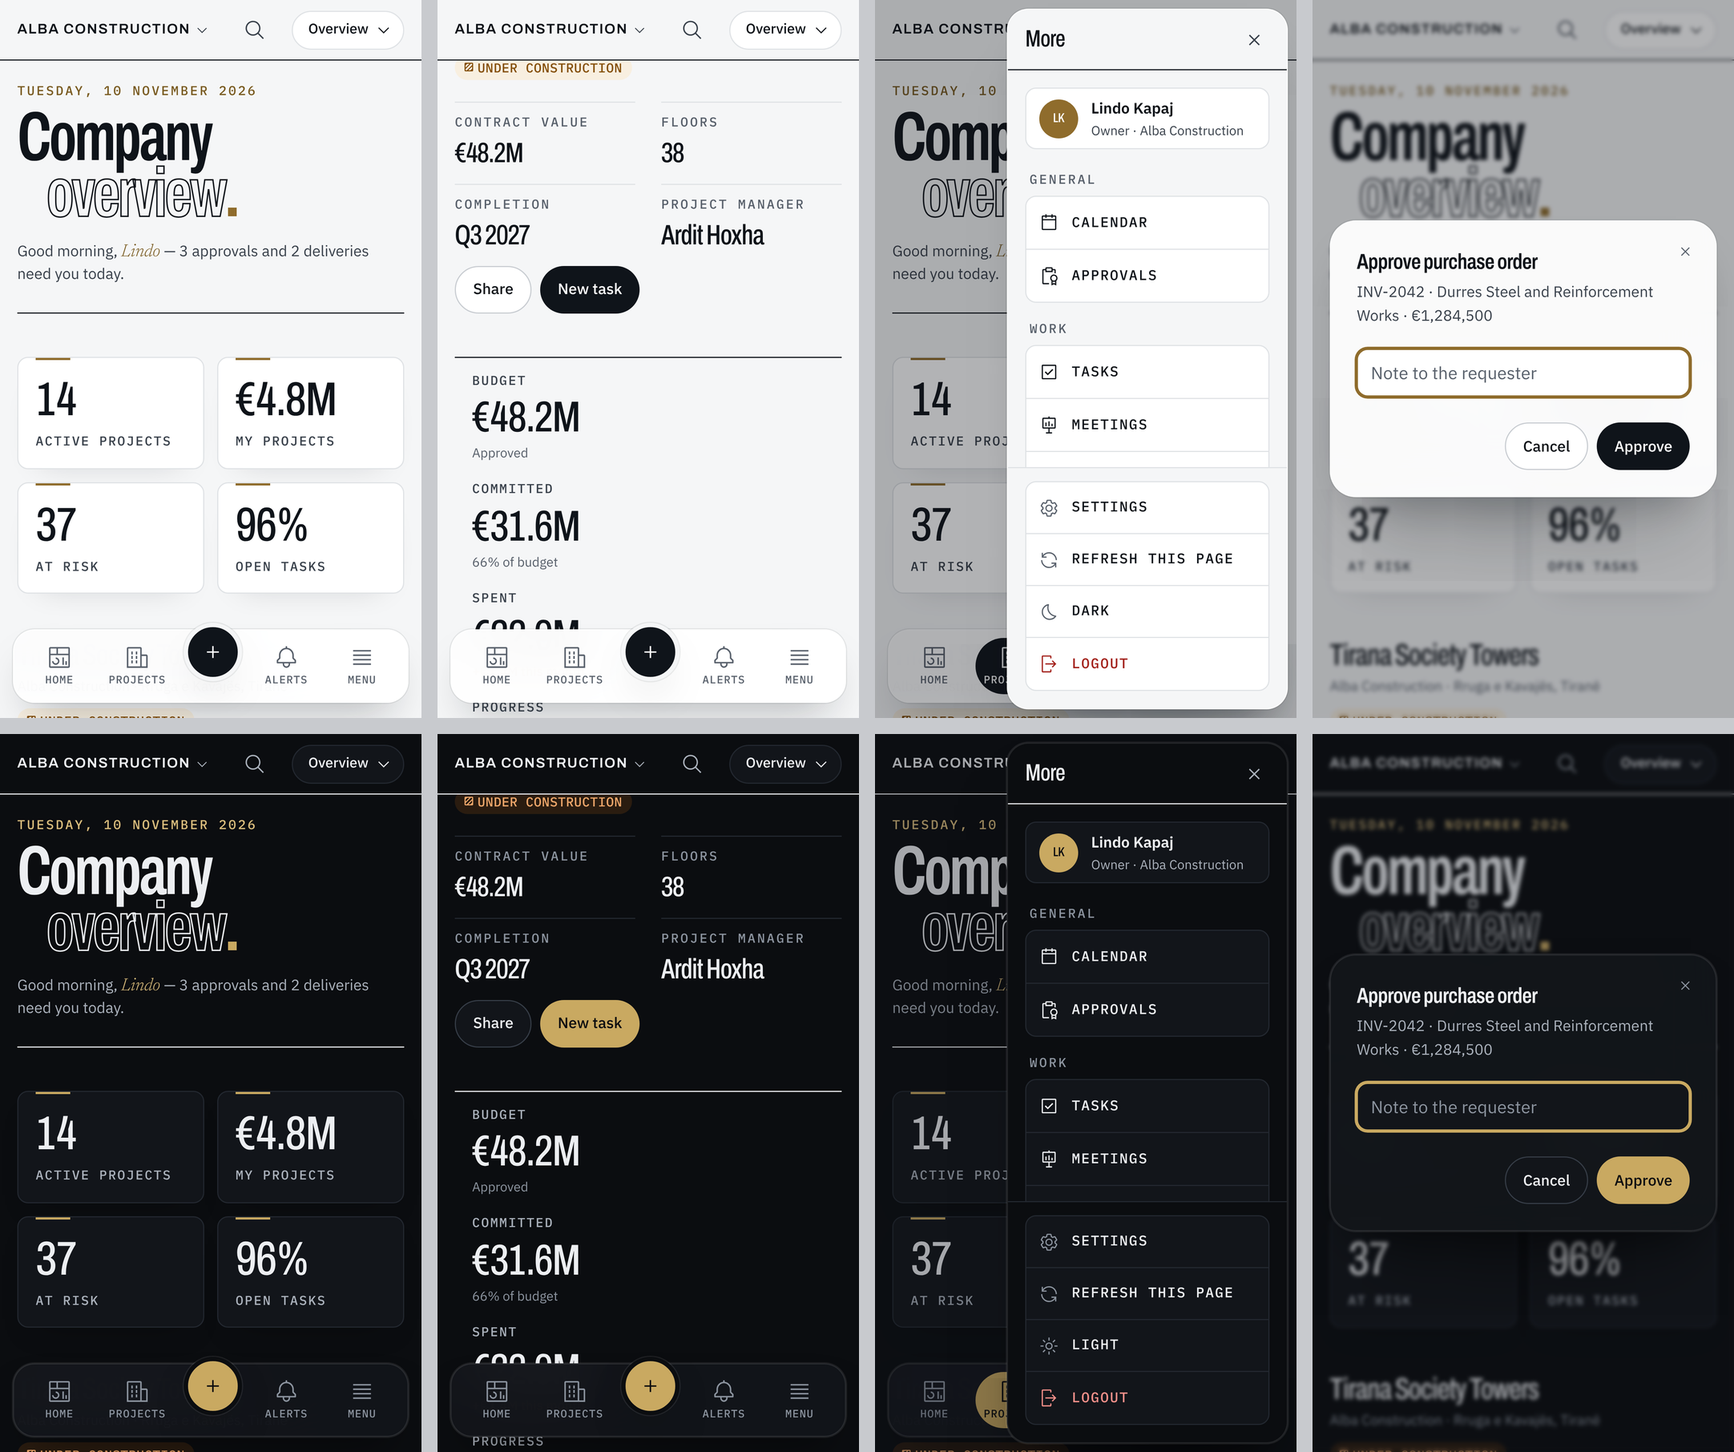
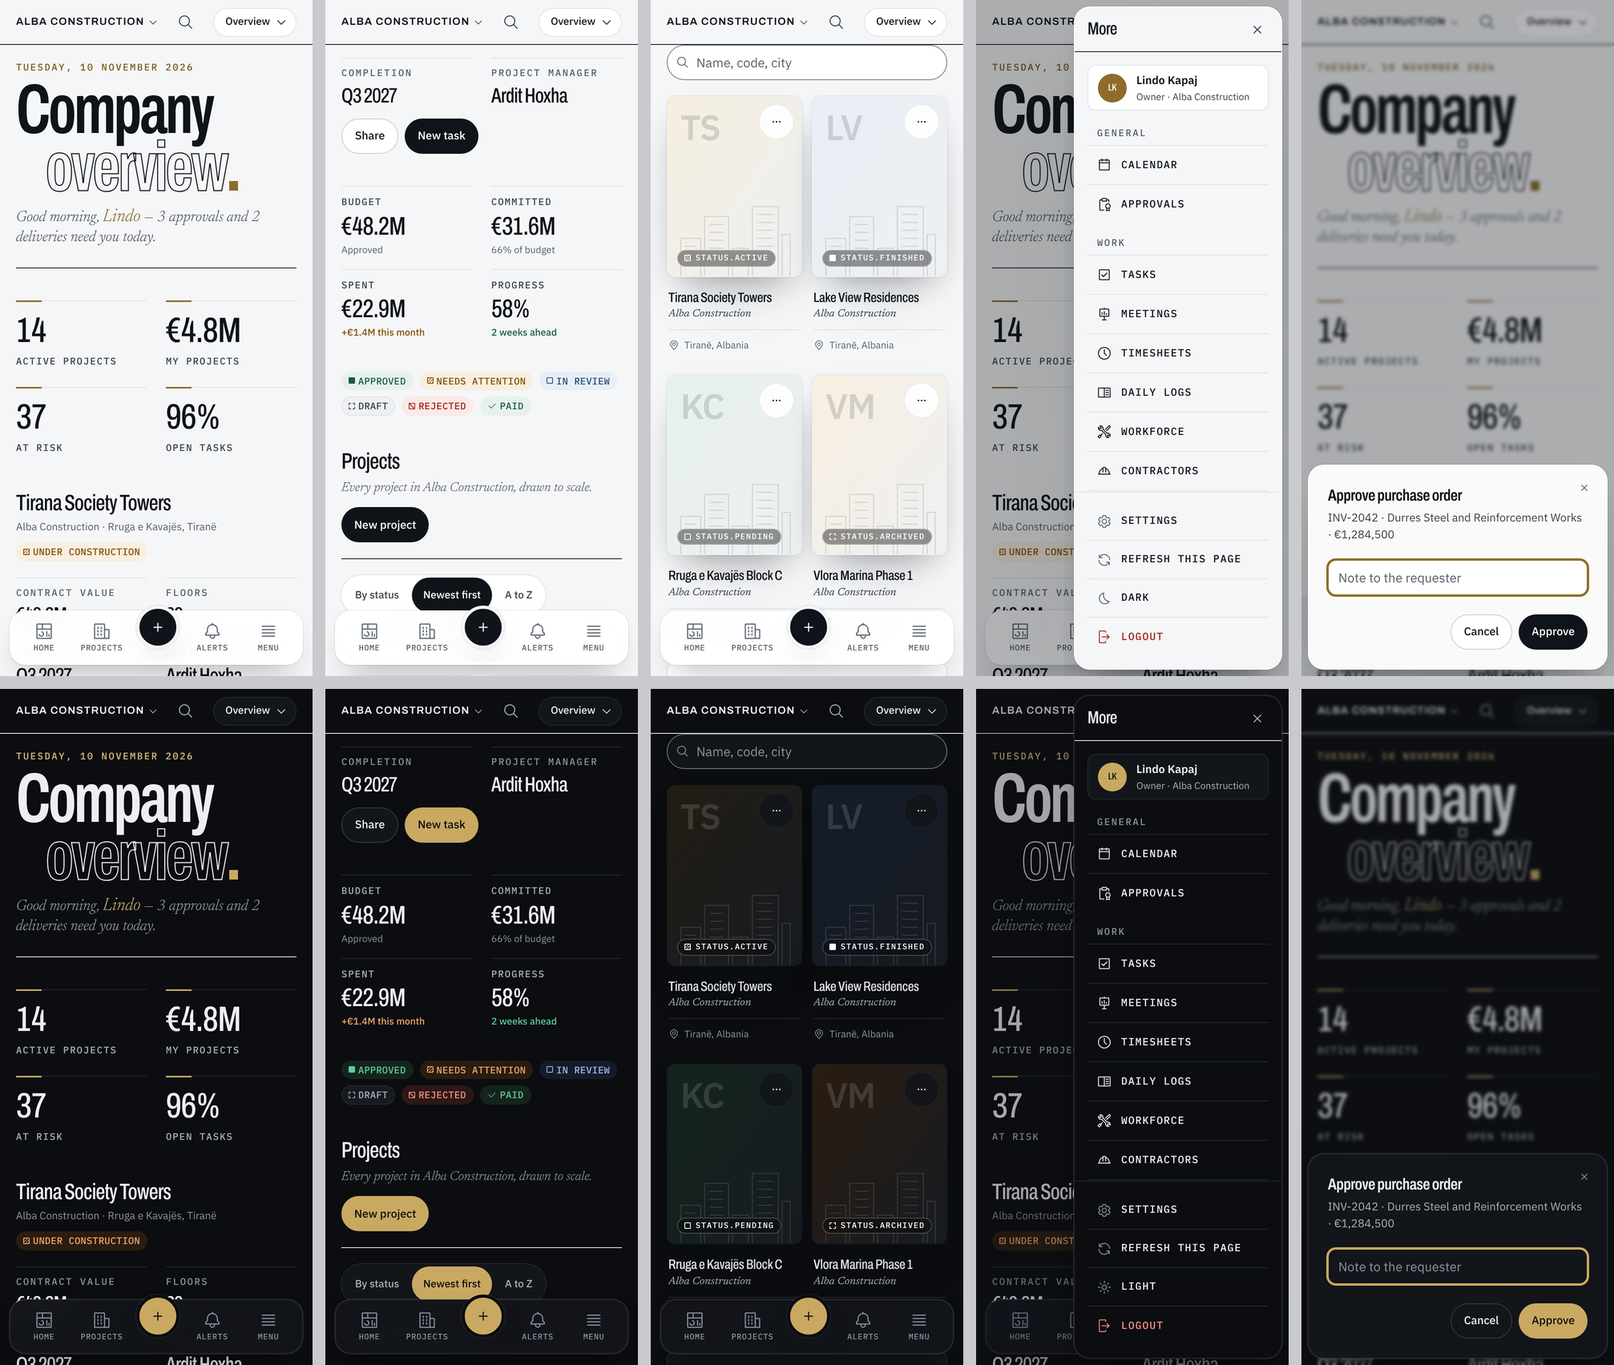
Theme 2 on phones: the reference's narrow page
- Hero sized to the screen: min(25vw - 10px, 7.5rem), fitted to the
  longest Albanian word down to 320px; the greeting as the italic kicker.
- KPI cards and the metric strip become open figures under hairlines,
  two to a row, like a record's facts.
- Plates two to a row with portrait covers, two-line names, no index.
- Docked and full-screen dialogs, BottomSheet and bottom drawers float
  8px off the edges with 20px corners; BottomSheet gets the glass.
- More sheet: open lists on the glass with hairlines between rows.
- 20px phone gutter in page and top bar.
- UI-03 §5.4 documents the measured reference and each change.

Theme 1 is pixel-identical (52 frames: desktop, 390px and 360px phones,
light and dark, More, centred/docked/full-screen dialogs).

Claude-Session: https://claude.ai/code/session_01S8aGHkojyJdXQxnRdnNyT7

diff --git a/components/layout/mobile-bottom-nav.tsx b/components/layout/mobile-bottom-nav.tsx
@@ -342,10 +342,10 @@ function MoreBody({
       ) : (
         shown.map((group) => (
           <section key={group.group} aria-labelledby={`more-${group.group}`}>
-            <h3 id={`more-${group.group}`} className="nesto-eyebrow mb-1.5 px-1 text-accent-strong look2:text-fg-subtle">
+            <h3 id={`more-${group.group}`} className="nesto-eyebrow mb-1.5 px-1 text-accent-strong look2:px-3 look2:text-fg-subtle">
               {group.group === "primary" ? t("mobile.general") : t(`groups.${group.group}`)}
             </h3>
-            <ul className="overflow-hidden rounded-[18px] border border-line bg-surface look2:rounded-[10px]">
+            <ul className="overflow-hidden rounded-[18px] border border-line bg-surface look2:rounded-none look2:border-x-0 look2:border-b-0 look2:bg-transparent">
               {group.items.map((item) => (
                 <li key={item.key} className="border-b border-line last:border-b-0">
                   <MoreLink item={item} active={pathname === item.href || pathname.startsWith(`${item.href}/`)} onDone={onDone} />
@@ -360,7 +360,7 @@ function MoreBody({
 
       {/* Pinned: Settings, Refresh, the theme and Logout stay at the foot. */}
       <div className="shrink-0 space-y-3 border-t border-accent/25 px-4 pb-4 pt-3 look2:border-line">
-      <section aria-label={t("mobile.account")} className="overflow-hidden rounded-[18px] border border-line bg-surface look2:rounded-[10px]">
+      <section aria-label={t("mobile.account")} className="overflow-hidden rounded-[18px] border border-line bg-surface look2:rounded-none look2:border-0 look2:bg-transparent">
         <Link href="/settings" navSource="mobile" onNavigate={onDone} className="flex min-h-12 items-center gap-3 border-b border-line px-3 text-body font-medium text-fg hover:bg-hover look2:font-mono look2:text-table look2:uppercase look2:tracking-[0.08em]">
           <Settings aria-hidden="true" strokeWidth={1.6} className="size-[18px] text-accent-strong look2:text-fg-subtle" />
           {t("settings")}
@@ -406,7 +406,7 @@ function MoreLink({ item, active, onDone }: { item: NavigationItem; active: bool
       }}
       aria-current={active ? "page" : undefined}
       data-pending={pending || undefined}
-      className={cn("relative flex min-h-12 items-center gap-3 px-3 text-body font-medium hover:bg-hover look2:font-mono look2:text-table look2:uppercase look2:tracking-[0.08em]", active ? "bg-accent-soft text-accent-strong look2:bg-primary look2:text-primary-fg" : "text-fg active:bg-accent-soft look2:active:bg-hover")}
+      className={cn("relative flex min-h-12 items-center gap-3 px-3 text-body font-medium hover:bg-hover look2:font-mono look2:text-table look2:uppercase look2:tracking-[0.08em]", active ? "bg-accent-soft text-accent-strong look2:rounded-[9px] look2:bg-primary look2:text-primary-fg" : "text-fg active:bg-accent-soft look2:active:bg-hover")}
     >
       <Icon aria-hidden="true" strokeWidth={1.6} className="size-[18px] shrink-0 text-accent-strong look2:text-current" />
       <span className="min-w-0 flex-1 truncate">{modules(`${item.key}.label`)}</span>

diff --git a/components/dashboard/welcome-header.tsx b/components/dashboard/welcome-header.tsx
@@ -57,7 +57,7 @@ export async function WelcomeHeader({
 
           <div className="mt-2 flex flex-wrap items-center gap-x-3 gap-y-2">
             {/* Version 2: no display face and nothing above the page title (UI-02 §6.2). */}
-            <h1 className="font-serif look2:font-display text-[2.875rem] font-normal leading-none tracking-[-0.01em] text-fg md:text-headline md:leading-[1.05] look2:font-semibold look2:text-[clamp(4rem,9vw,7.5rem)] look2:leading-[0.82] look2:tracking-[-0.035em] look2:[font-variation-settings:'wdth'_62]">
+            <h1 className="font-serif look2:font-display text-[2.875rem] font-normal leading-none tracking-[-0.01em] text-fg md:text-headline md:leading-[1.05] look2:font-semibold look2:text-[clamp(4rem,9vw,7.5rem)] look2:max-md:text-[min(calc(25vw-10px),7.5rem)] look2:leading-[0.82] look2:tracking-[-0.035em] look2:[font-variation-settings:'wdth'_62]">
               {t(`${heading}.lead`)} <em className="italic text-accent-strong look2:block look2:pl-[0.42em] look2:font-display look2:font-semibold look2:not-italic look2:tracking-[-0.035em] look2:text-transparent look2:[-webkit-text-stroke:1.25px_var(--nesto-fg)] look2:[font-variation-settings:'wdth'_62] look2:after:ml-[0.04em] look2:after:inline-block look2:after:size-[0.13em] look2:after:bg-accent look2:after:align-baseline look2:after:content-['']">{t(`${heading}.accent`)}</em>
               {/* The top of the page, as the first of its sections (UI-02 §26.3). */}
             </h1>
@@ -66,7 +66,7 @@ export async function WelcomeHeader({
 
           {/* Phone: the greeting and the role chip share one row (Premium Mobile §5.1). */}
           <div className="mt-3 flex flex-wrap items-center gap-x-2.5 gap-y-1.5">
-            <p className="text-[0.9375rem] text-fg-muted md:text-body">
+            <p className="text-[0.9375rem] text-fg-muted md:text-body look2:nesto-standfirst look2:text-[1.1875rem] look2:leading-[1.3] look2:md:text-[1.3125rem]">
               {/* The name takes the heading's accent: the serif in gold italic, like "overview" above. */}
               {greetingText(t)}, <em className="font-serif text-[1.15em] italic leading-none text-accent-strong look2:font-light look2:tracking-normal">{context.firstName}</em>
             </p>

diff --git a/styles/look-2.css b/styles/look-2.css
@@ -223,3 +223,74 @@
   background: transparent;
   box-shadow: none;
 }
+
+/*
+ * The phone (below 768px): the reference's narrow page. Every figure stands
+ * open under its own hairline, two to a row; the page keeps a 20px gutter;
+ * plates sit two to a row (components/projects/portfolio/gallery.ts) without
+ * their index, as the reference drops it there.
+ */
+@media (max-width: 767.98px) {
+  :root[data-look="2"] {
+    --nesto-space-page-x: 1.25rem;
+  }
+
+  /* KPI cards: open figures, the gold tick standing on the hairline (components/dashboard/kpi-card.tsx). */
+  :root[data-look="2"] [data-kpi-card] {
+    border-width: 1px 0 0;
+    border-color: var(--nesto-border);
+    border-radius: 0;
+    background: transparent;
+    box-shadow: none;
+    padding: 0.875rem 0 0.25rem;
+  }
+
+  :root[data-look="2"] [data-kpi-card]::before {
+    left: 0;
+    top: -1px;
+  }
+
+  /* The metric strip: two figures to a row, each under its own hairline, like a record's facts. */
+  :root[data-look="2"] [data-metric-strip] {
+    border-width: 0;
+  }
+
+  :root[data-look="2"] [data-metric-strip] > dl {
+    grid-template-columns: repeat(2, minmax(0, 1fr));
+    column-gap: 1.5rem;
+    row-gap: 1rem;
+    margin: 0;
+  }
+
+  :root[data-look="2"] [data-metric-strip] > dl > * {
+    border-width: 1px 0 0;
+    padding: 0.625rem 0 0;
+  }
+}
+
+@media (max-width: 639.98px) {
+  :root[data-look="2"] [data-numbered] [data-plate] [data-numbered-title]::before {
+    display: none;
+  }
+
+  /*
+   * Sheets — a docked dialog, a full-screen one, a bottom sheet, a bottom
+   * drawer — float as the reference's narrow sheet: 8px off the screen's
+   * edges and clear of the home indicator, 20px corners all round. A centred
+   * dialog stays centred, so an open keyboard never covers it.
+   */
+  :root[data-look="2"] [data-phone-sheet] {
+    inset: auto 0.5rem max(0.5rem, var(--nesto-safe-bottom)) 0.5rem;
+    width: auto;
+    max-width: none;
+    translate: none;
+    border-width: 1px;
+    border-radius: 20px;
+    max-height: calc(100dvh - 1rem - var(--nesto-safe-top) - var(--nesto-safe-bottom));
+  }
+
+  :root[data-look="2"] [data-phone-sheet="full"] {
+    top: max(0.5rem, var(--nesto-safe-top));
+    height: auto;
+  }
+}

diff --git a/app/admin/_dashboard/sections.tsx b/app/admin/_dashboard/sections.tsx
@@ -47,7 +47,7 @@ export async function DashboardHeader({ context, actions }: { context: PlatformC
           <div className="min-w-0">
             <p className="nesto-eyebrow text-accent-strong">{today}</p>
             <div className="mt-2 flex flex-wrap items-center gap-x-3 gap-y-2">
-              <h1 className="font-serif look2:font-display text-[2.875rem] font-normal leading-none tracking-[-0.01em] text-fg md:text-headline md:leading-[1.05] look2:font-semibold look2:text-[clamp(4rem,9vw,7.5rem)] look2:leading-[0.82] look2:tracking-[-0.035em] look2:[font-variation-settings:'wdth'_62]">{ta("dashboard.lead")} <em className="italic text-accent-strong look2:block look2:pl-[0.42em] look2:font-display look2:font-semibold look2:not-italic look2:tracking-[-0.035em] look2:text-transparent look2:[-webkit-text-stroke:1.25px_var(--nesto-fg)] look2:[font-variation-settings:'wdth'_62] look2:after:ml-[0.04em] look2:after:inline-block look2:after:size-[0.13em] look2:after:bg-accent look2:after:align-baseline look2:after:content-['']">{ta("dashboard.accent")}</em></h1>
+              <h1 className="font-serif look2:font-display text-[2.875rem] font-normal leading-none tracking-[-0.01em] text-fg md:text-headline md:leading-[1.05] look2:font-semibold look2:text-[clamp(4rem,9vw,7.5rem)] look2:max-md:text-[min(calc(25vw-10px),7.5rem)] look2:leading-[0.82] look2:tracking-[-0.035em] look2:[font-variation-settings:'wdth'_62]">{ta("dashboard.lead")} <em className="italic text-accent-strong look2:block look2:pl-[0.42em] look2:font-display look2:font-semibold look2:not-italic look2:tracking-[-0.035em] look2:text-transparent look2:[-webkit-text-stroke:1.25px_var(--nesto-fg)] look2:[font-variation-settings:'wdth'_62] look2:after:ml-[0.04em] look2:after:inline-block look2:after:size-[0.13em] look2:after:bg-accent look2:after:align-baseline look2:after:content-['']">{ta("dashboard.accent")}</em></h1>
               <Badge tone="neutral" className="max-md:hidden">{ta("shell.platformAdmin")}</Badge>
             </div>
             <div className="mt-3 flex flex-wrap items-center gap-x-2.5 gap-y-1.5">

diff --git a/components/dashboard/kpi-card.tsx b/components/dashboard/kpi-card.tsx
@@ -51,7 +51,7 @@ export async function KpiCard({ kpi }: { kpi: ResolvedKpi }) {
 
   if (breakdown) {
     return (
-      <div className="nesto-card relative before:absolute before:left-4 before:top-0 before:h-0.5 before:w-8 before:bg-accent before:content-[''] md:before:left-5 p-4 md:p-5 look2:flex look2:flex-col" data-testid="kpi-by-company">
+      <div data-kpi-card="" className="nesto-card relative before:absolute before:left-4 before:top-0 before:h-0.5 before:w-8 before:bg-accent before:content-[''] md:before:left-5 p-4 md:p-5 look2:flex look2:flex-col" data-testid="kpi-by-company">
         {href ? (
           <Link navSource="dashboard" href={href} className="block focus-visible:outline-none focus-visible:ring-2 focus-visible:ring-ring/30 look2:flex look2:flex-col">
             {body}
@@ -84,12 +84,13 @@ export async function KpiCard({ kpi }: { kpi: ResolvedKpi }) {
   }
 
   if (!href) {
-    return <div className="nesto-card relative before:absolute before:left-4 before:top-0 before:h-0.5 before:w-8 before:bg-accent before:content-[''] md:before:left-5 p-4 md:p-5 look2:flex look2:flex-col">{body}</div>;
+    return <div data-kpi-card="" className="nesto-card relative before:absolute before:left-4 before:top-0 before:h-0.5 before:w-8 before:bg-accent before:content-[''] md:before:left-5 p-4 md:p-5 look2:flex look2:flex-col">{body}</div>;
   }
 
   return (
     <Link navSource="dashboard"
       href={href}
+      data-kpi-card=""
       className={cn(
         "nesto-card relative before:absolute before:left-4 before:top-0 before:h-0.5 before:w-8 before:bg-accent before:content-[''] md:before:left-5 block p-4 transition-colors hover:border-line-strong md:p-5 look2:flex look2:flex-col",
         "focus-visible:outline-none focus-visible:ring-2 focus-visible:ring-ring/30",

diff --git a/components/projects/portfolio/project-card.tsx b/components/projects/portfolio/project-card.tsx
@@ -42,7 +42,7 @@ export function ProjectCard({
   const location = locationLabel(project.location);
 
   return (
-    <article className="group relative min-w-0" data-testid="project-card" data-project-id={project.id}>
+    <article className="group relative min-w-0" data-plate="" data-testid="project-card" data-project-id={project.id}>
       <div
         className={cn(
           COVER_ASPECT,
@@ -71,7 +71,7 @@ export function ProjectCard({
       </div>
 
       <div className="mt-3 min-w-0 px-0.5 look2:mt-4">
-        <h2 data-numbered-title="" className="truncate text-card font-semibold text-fg look2:text-[1.25rem] look2:font-medium" title={project.name}>
+        <h2 data-numbered-title="" className="truncate text-card font-semibold text-fg look2:text-[1.25rem] look2:font-medium look2:max-sm:line-clamp-2 look2:max-sm:whitespace-normal look2:max-sm:text-[1.0625rem] look2:max-sm:leading-[1.15]" title={project.name}>
           <Link
             href={project.href}
             // A project in another company opens by entering that company;
@@ -83,7 +83,7 @@ export function ProjectCard({
             {project.name}
           </Link>
         </h2>
-        <p className="mt-0.5 flex min-w-0 items-center gap-1.5 text-table text-fg-muted look2:nesto-standfirst look2:text-body look2:font-normal" data-testid="project-company">
+        <p className="mt-0.5 flex min-w-0 items-center gap-1.5 text-table text-fg-muted look2:nesto-standfirst look2:text-body look2:font-normal look2:max-sm:text-table" data-testid="project-company">
           <Building2 aria-hidden="true" className="size-3.5 shrink-0 text-fg-subtle look2:hidden" />
           <span className="truncate">{project.company.name}</span>
         </p>

diff --git a/components/layout/topbar.tsx b/components/layout/topbar.tsx
@@ -50,7 +50,7 @@ export async function Topbar({
     // The blur sits on a layer behind the bar, not on the bar: a backdrop filter makes its
     // element the box that `position: fixed` children are placed in, which pinned the phone's
     // + Create bottom sheet to the bar's lower edge, above the screen (NAV-01 Q24).
-    <header data-shell-region data-topbar-row className="sticky top-0 z-[var(--nesto-z-shell-header)] flex h-(--nesto-shell-header-h) items-center gap-2 border-b border-accent/25 bg-canvas look2:border-fg pl-[max(1rem,env(safe-area-inset-left))] pr-[max(1rem,env(safe-area-inset-right))] md:pl-[max(1.5rem,env(safe-area-inset-left))] md:pr-[max(1.5rem,env(safe-area-inset-right))] xl:px-8">
+    <header data-shell-region data-topbar-row className="sticky top-0 z-[var(--nesto-z-shell-header)] flex h-(--nesto-shell-header-h) items-center gap-2 border-b border-accent/25 bg-canvas look2:border-fg pl-[max(1rem,env(safe-area-inset-left))] pr-[max(1rem,env(safe-area-inset-right))] md:pl-[max(1.5rem,env(safe-area-inset-left))] md:pr-[max(1.5rem,env(safe-area-inset-right))] xl:px-8 look2:max-md:pl-[max(1.25rem,env(safe-area-inset-left))] look2:max-md:pr-[max(1.25rem,env(safe-area-inset-right))]">
       <div className="flex min-w-0 flex-1 items-center gap-2">
         <MobileHeader />
 

diff --git a/components/projects/portfolio/gallery.ts b/components/projects/portfolio/gallery.ts
@@ -10,13 +10,13 @@
  * the shell's content width capped, a card stays a card on an ultra-wide
  * screen (§157).
  */
-export const GALLERY_GRID = "grid grid-cols-1 gap-x-4 gap-y-6 sm:grid-cols-2 sm:gap-x-5 sm:gap-y-8 lg:grid-cols-3 lg:gap-x-6 min-[1440px]:grid-cols-4";
+export const GALLERY_GRID = "grid grid-cols-1 gap-x-4 gap-y-6 sm:grid-cols-2 sm:gap-x-5 sm:gap-y-8 lg:grid-cols-3 lg:gap-x-6 min-[1440px]:grid-cols-4 look2:max-sm:grid-cols-2 look2:max-sm:gap-x-3 look2:max-sm:gap-y-7";
 
 /**
  * The portrait render from two columns up (§41). A phone's one full-width
  * column shows it landscape, so a screen holds more than one project (§152).
  */
-export const COVER_ASPECT = "aspect-[4/3] sm:aspect-[3/4]";
+export const COVER_ASPECT = "aspect-[4/3] sm:aspect-[3/4] look2:max-sm:aspect-[3/4]";
 
 /** "1 project", "11 projects". */
 export function projectCountLabel(count: number): string {

diff --git a/components/ui/dialog.tsx b/components/ui/dialog.tsx
@@ -75,6 +75,7 @@ export function DialogContent({
             "max-sm:inset-x-0 max-sm:bottom-0 max-sm:left-0 max-sm:top-auto max-sm:w-full max-sm:max-w-none max-sm:translate-x-0 max-sm:translate-y-0 max-sm:rounded-b-none max-sm:rounded-t-[var(--nesto-radius-sheet)] max-sm:pb-[max(1.5rem,var(--nesto-safe-bottom))] max-sm:data-[state=open]:animate-[nesto-slide-in-bottom_180ms_var(--nesto-ease)] max-sm:data-[state=closed]:animate-[nesto-slide-out-bottom_180ms_var(--nesto-ease)]",
           className,
         )}
+        data-phone-sheet={phone === "sheet-phone" ? "dock" : phone === "fullscreen-phone" ? "full" : undefined}
         /* Initial focus never on a destructive action; focus back to the invoker, or
            to the main region when the invoker is gone (AUD-11 §4, AV-05). */
         onOpenAutoFocus={(event) => {

diff --git a/components/ui/bottom-sheet.tsx b/components/ui/bottom-sheet.tsx
@@ -111,8 +111,11 @@ function SheetPanel({ title, description, footer, hideTitle, className, children
         "transition-transform duration-200",
         "data-[state=open]:animate-[nesto-slide-in-bottom_180ms_var(--nesto-ease)]",
         "data-[state=closed]:animate-[nesto-slide-out-bottom_180ms_var(--nesto-ease)]",
+        // Theme 2: the reference's glass sheet; on a phone it floats 8px off the edges (styles/look-2.css).
+        "look2:border-[light-dark(rgb(255_255_255/0.75),rgb(255_255_255/0.1))] look2:bg-surface/[0.94] look2:backdrop-blur-[24px] look2:backdrop-saturate-[1.4]",
         className,
       )}
+      data-phone-sheet="dock"
     >
       {/* The handle is the drag target. It is decoration for keyboard and screen-reader users, who have the close button. */}
       <div

diff --git a/components/ui/metric-strip.tsx b/components/ui/metric-strip.tsx
@@ -92,7 +92,7 @@ export function MetricCell({
           label
         )}
       </dt>
-      <dd className="mt-1 text-metric font-semibold text-fg [overflow-wrap:anywhere] look2:mt-1.5 look2:font-display look2:text-[2.5rem] look2:leading-none look2:font-medium">
+      <dd className="mt-1 text-metric font-semibold text-fg [overflow-wrap:anywhere] look2:mt-1.5 look2:font-display look2:text-[2.5rem] look2:leading-none look2:font-medium look2:max-md:text-[2rem]">
         {loading ? <Skeleton aria-hidden="true" className="h-[calc(var(--nesto-text-metric)*var(--nesto-leading-metric))] w-24 max-w-full" /> : value}
       </dd>
       {scope || comparison ? (

diff --git a/components/dashboard/dashboard-grid.tsx b/components/dashboard/dashboard-grid.tsx
@@ -18,6 +18,8 @@ export function KpiGrid({ className, count, ...props }: React.ComponentProps<"di
     <div
       className={cn(
         "grid grid-cols-1 gap-3 min-[360px]:grid-cols-2 md:gap-4 lg:grid-cols-4 [&>*]:min-w-0",
+        // Theme 2 on a phone: open figures under hairlines, spaced like a record's facts.
+        "look2:max-md:gap-x-6 look2:max-md:gap-y-5",
         count === 5 && "xl:grid-cols-5",
         className,
       )}
